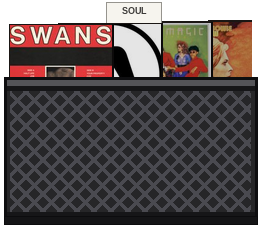
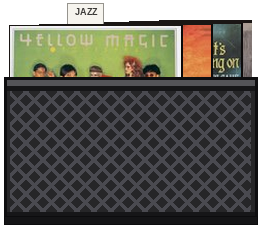
封面尺寸固定成 31.5cm，不跟著箱子縮放
店主：「你看唱片大小不一樣」。face_out() 原本用 size = h × 2.0，
h 是「露出箱口多高」，結果木箱裡的唱片變 26cm、黑籃裡的變 19cm，
同一個畫面裡兩種大小。

- 新增 LP_CM = 31.5 / LP_PX = 173，封面一律用這個尺寸
- h 只決定露出箱口多高，不決定唱片多大
- 每張露出的寬度改用 step_px（木箱 34、黑籃 30 ≒ 6cm），
  原本只露 3.5cm，看不出是什麼盤

Claude-Session: https://claude.ai/code/session_019QrQGEkqCT46LjRfRKh6Qz

Changed region(s): [[0.0307, 0.0, 0.9808, 0.3377]]

diff --git a/scripts/make-crates.py b/scripts/make-crates.py
@@ -33,19 +33,28 @@ SLEEVE = [(188,42,52),(36,88,158),(226,216,192),(232,190,86),(52,118,84),
 COVERS = os.path.join(ROOT, 'art', 'covers')
 
 
-def face_out(im, x, y, w, h, n, label_every=5):
+LP_CM = 31.5                             # LP 封面永遠是 31.5cm 見方
+LP_PX = int(LP_CM * PX_CM)               # → 173 原圖 px
+
+
+def face_out(im, x, y, w, h, n=None, label_every=5, step_px=34):
     """箱子裡的唱片：**封面朝外**、一張疊一張往後倒（用 art/covers 的真封面）。
-    只有露在箱口以上的部分看得到，所以封面畫得比開口高、下半截被箱身蓋住。"""
+    只有露在箱口以上的部分看得到，下半截被箱身蓋住。
+
+    **封面尺寸固定 LP_PX，不跟著箱子大小縮放**——一度讓木箱裡的唱片變 26cm、
+    黑籃裡的變 19cm，同一個畫面裡兩種大小，一眼就看得出來不對。
+    h 只決定「露出箱口多高」，不決定唱片多大。"""
     pool = sorted(p for p in os.listdir(COVERS) if p.endswith('.jpg')) \
         if os.path.isdir(COVERS) else []
     d = ImageDraw.Draw(im)
     if not pool:
         sleeves(d, x, y, w, h, n, label_every); return
-    size = int(h * 2.0)                      # 封面是方的，下半截藏在箱子裡
+    size = LP_PX                             # 封面是方的，下半截藏在箱子裡
     pad = int(h * .5)                        # 上方留給比較高的分類卡
     layer = Image.new('RGBA', (w, size + pad), (0, 0, 0, 0))   # 先畫在暫存層，再裁齊箱口
     ld = ImageDraw.Draw(layer)
-    step = max(8, (w - size * .42) / max(1, n - 1))
+    step = step_px                           # 每張露出的寬度（＝翻片時看到的厚度感）
+    n = n or max(2, int((w - size * .42) / step) + 1)
     picks = [random.choice(pool) for _ in range(n)]
     for i in range(n - 1, -1, -1):           # 由後往前畫，前面那張蓋住後面
         cx, ly = int(i * step), pad + int((n - 1 - i) * 1.1)
@@ -105,8 +114,7 @@ def wood_crate(w_cm=68, h_cm=30, label='PROGRESSIVE ROCK'):
     rim = int(14 * PX_CM)                               # 唱片露出箱口的高度
     body_top = rim + int(6 * PX_CM)
     body_bot = H + 4
-    face_out(im, x0 + 6, rim - int(9 * PX_CM), W - 12, int(13 * PX_CM),
-             max(7, int(w_cm / 7)))
+    face_out(im, x0 + 6, rim - int(9 * PX_CM), W - 12, int(13 * PX_CM))
     d = ImageDraw.Draw(im)
     # 箱身（前板）
     d.rectangle([x0, body_top, x1, body_bot], fill=(214, 176, 118), outline=INK)
@@ -141,7 +149,7 @@ def black_crate(w_cm=46, h_cm=30):
     rim = int(10 * PX_CM)
     body_top, body_bot = rim + int(4 * PX_CM), H + 4
     face_out(im, x0 + 5, rim - int(6.5 * PX_CM), W - 10, int(9.5 * PX_CM),
-             max(5, int(w_cm / 8)), label_every=7)
+             label_every=7, step_px=30)
     d = ImageDraw.Draw(im)
     d.rectangle([x0, body_top, x1, body_bot], fill=(38, 38, 40), outline=(16, 16, 18))
     d.rectangle([x0, body_top, x1, body_top + 8], fill=(84, 84, 88))     # 籃口
